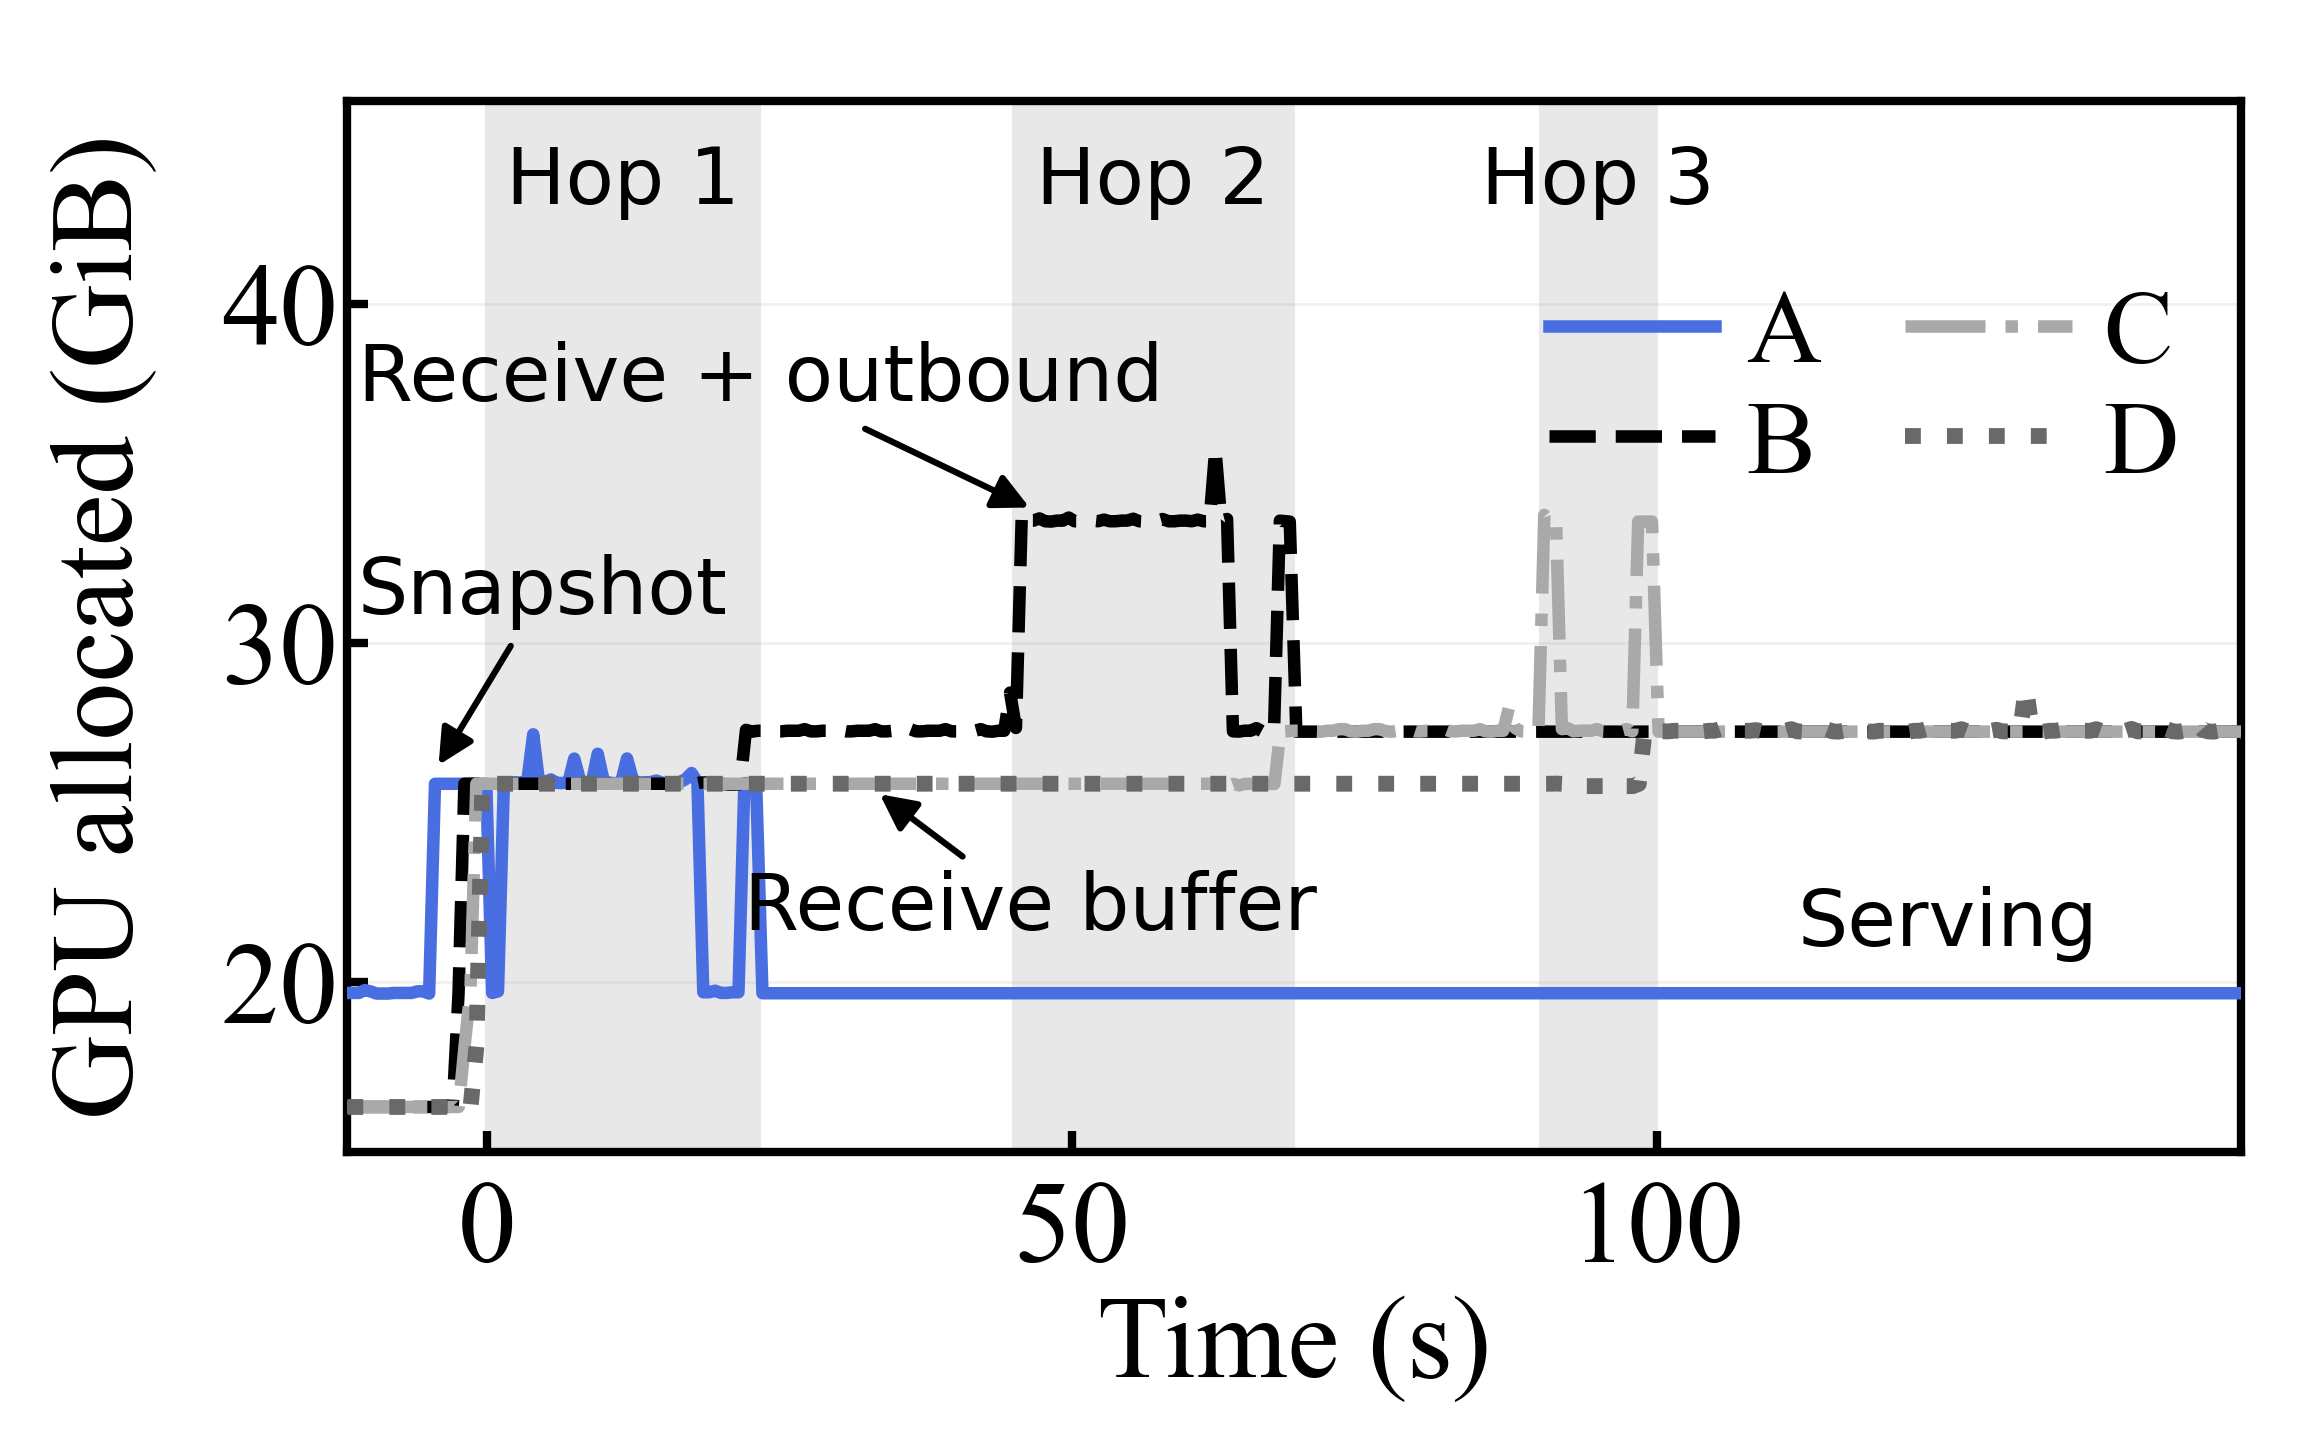
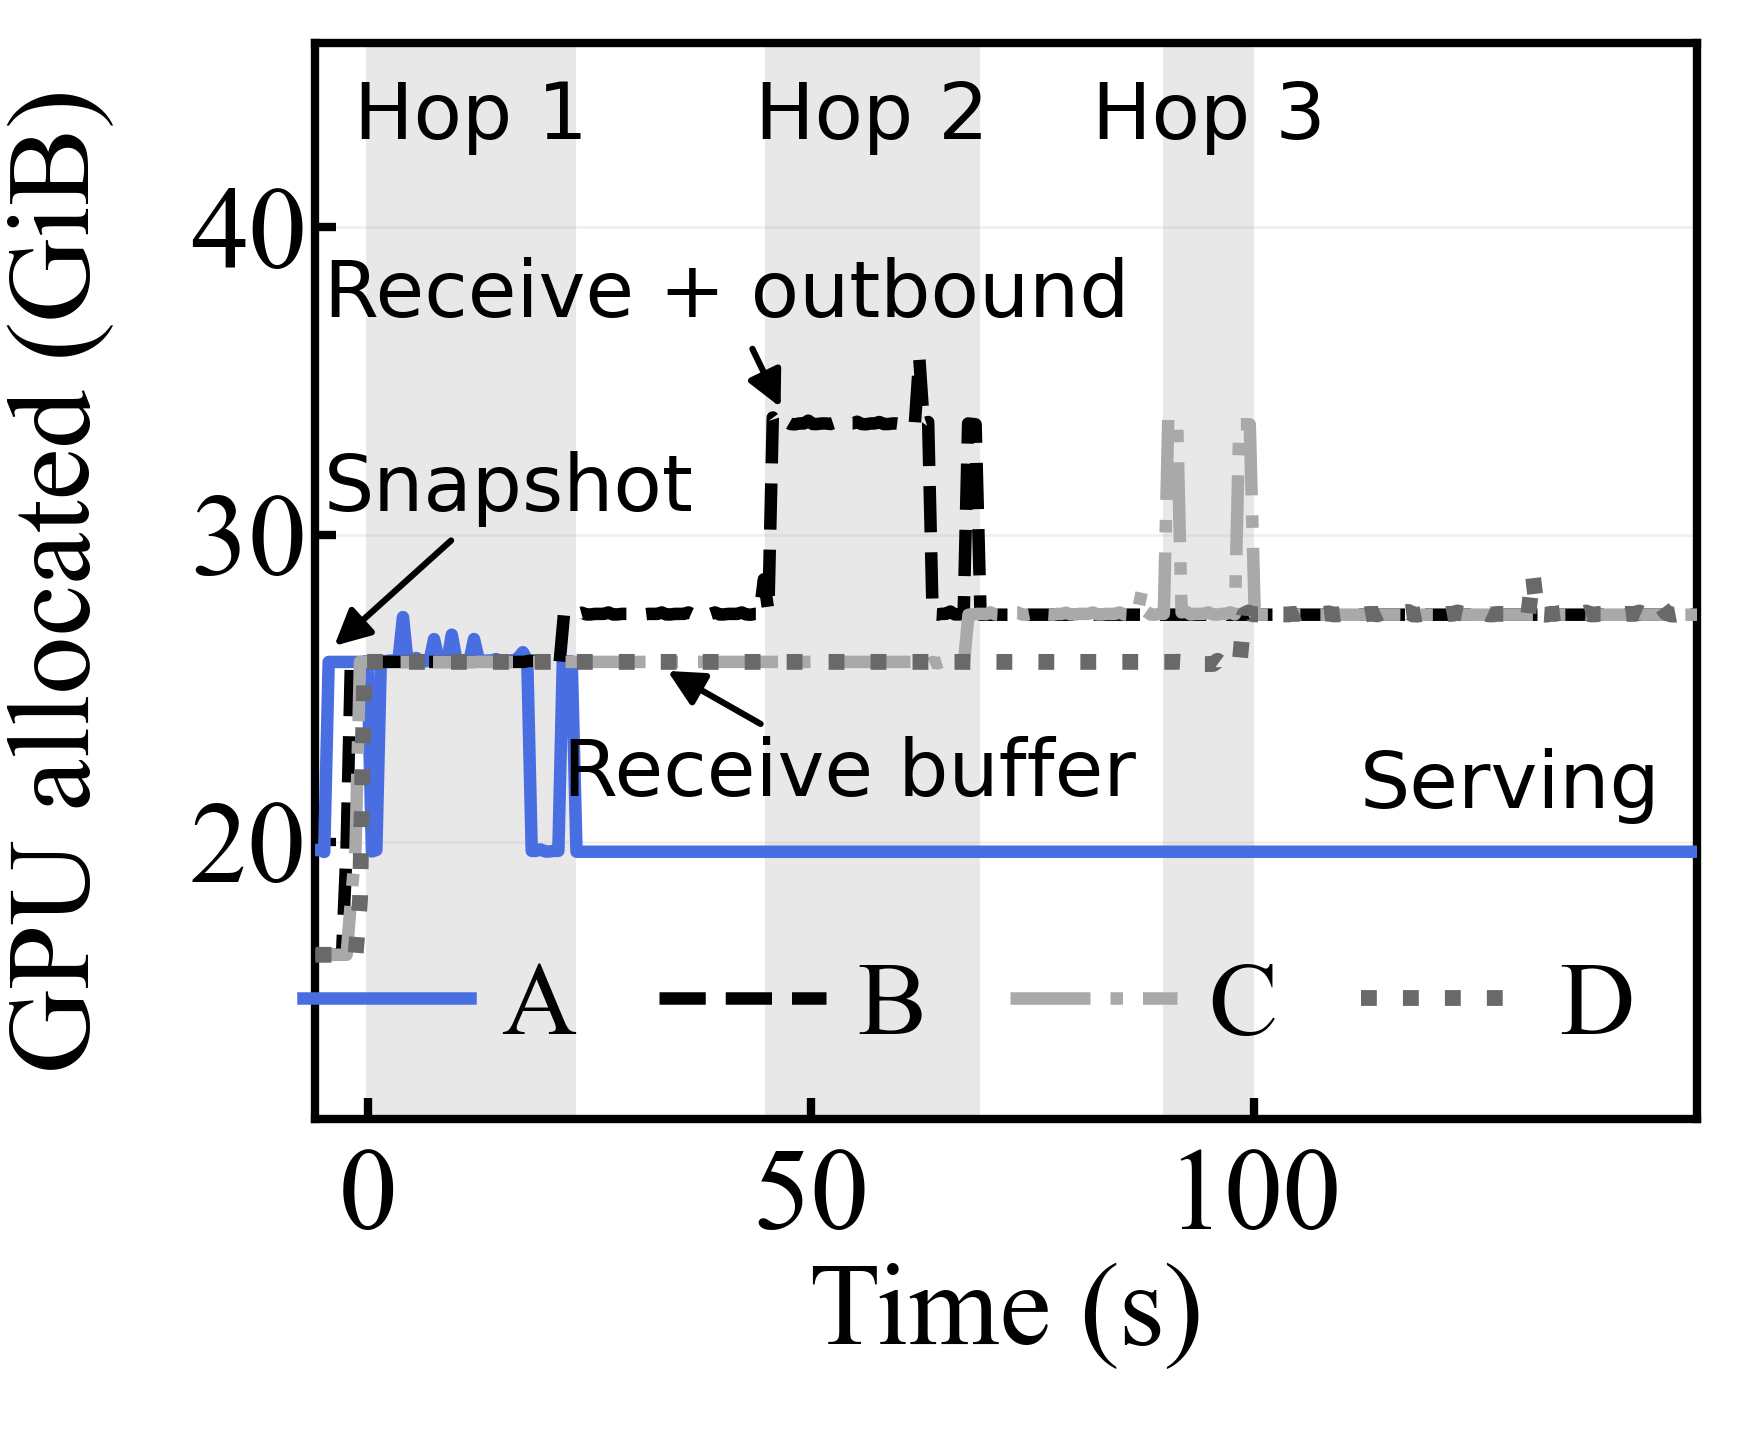
Fig. 14 DRAFT 2: both panels on the Fig. 11 canvas (5.83 x 4.78 in, axes [0.18, 0.22, 0.79, 0.75]; user 2026-11-03); (a) label 'Per-call slowdown (%)' as the rotated y label, operations on x (rotated 28 pt category labels overlap in a Fig. 11 row; fonts unchanged); (b) legend in one row at the botto

diff --git a/tools/eval/plot_fig14_v2.py b/tools/eval/plot_fig14_v2.py
@@ -26,7 +26,8 @@ from plot_fig7_migration import (ANNOT, ANNOT_FONT, BLUE, DARK_GRAY, DIM_GRAY, F
 
 OUT = ROOT / "results/evaluation/osdi/fig14/figures/v2"
 RES = ROOT / "results/evaluation/osdi/fig14/fig14_results.json"
-FIG_SIZE_6A = (5.83, 4.78)
+FIG_SIZE_6A = (5.83, 4.78)          # Fig. 11 canvas and plot box (user 2026-11-03: both panels the same size as Fig. 11)
+AXES_POS_11 = [0.18, 0.22, 0.79, 0.75]
 WL = ("dog", "bfly")
 
 
@@ -44,33 +45,30 @@ def med(xs):
 
 
 def dots(res, out):
+    """Vertical dot plot on the Fig. 11 canvas: rotated 28 pt category labels do not fit a Fig. 11 row (fonts are never
+    reduced), so the operations are on x and the slowdown on y (rotated y label)."""
     nat, ph = res["native"], res["phases"]
     rows = [("Tracking", [nat["ratios"][w]["track/native"] for w in WL]),
             ("Transfer", [med([x["src_ratio"] for x in ph["transfer"] if x["workload"] == w]) for w in WL]),
             ("Staging", [med([x["ratio"] for x in ph["staging"] if x["workload"] == w]) for w in WL])]
-    fig = plt.figure(figsize=FIG_SIZE_6A)
-    # wider left margin for the 28 pt category labels (fonts are never reduced)
-    ax = fig.add_axes([0.30, 0.22, 0.66, 0.75])
-    n = len(rows)
-    for i, (name, vals) in enumerate(rows):
-        y = n - 1 - i
+    fig = plt.figure(figsize=FIG_SIZE_6A); ax = fig.add_axes(AXES_POS_11)
+    for x, (name, vals) in enumerate(rows):
         for wi, v in enumerate(vals):
             pct = 100 * (v - 1)
-            dy = 0.14 if wi == 0 else -0.14
-            ax.scatter(pct, y + dy, s=320, marker="o", facecolor=BLUE if wi == 0 else "white", edgecolor=BLUE, linewidth=2.5, zorder=4)
-            ax.text(pct + 0.12, y + dy, f"{pct:.2f}" if pct < 0.5 else f"{pct:.1f}", ha="left", va="center", fontsize=ANNOT,
-                    fontfamily=ANNOT_FONT, style="italic")
-        ax.axhline(y, color="#DDDDDD", lw=1.0, zorder=1)
-    ax.set_yticks(range(n)); ax.set_yticklabels([r[0] for r in rows][::-1])
-    ax.set_ylim(-0.6, n - 0.4)
-    ax.set_xlim(-0.2, 3.0)
-    finish_axes(ax, "")
-    ax.tick_params(axis="y", length=0, pad=8)
-    ax.grid(axis="y", visible=False); ax.grid(axis="x", alpha=0.18, linewidth=0.7)
-    ax.set_xlabel("Time per call (+%)", fontsize=LABEL, labelpad=4)
+            dx = -0.17 if wi == 0 else 0.17
+            ax.scatter(x + dx, pct, s=320, marker="o", facecolor=BLUE if wi == 0 else "white", edgecolor=BLUE, linewidth=2.5, zorder=4)
+            ax.text(x + dx, pct + 0.16, f"{pct:.2f}" if pct < 0.5 else f"{pct:.1f}", ha="center", va="bottom", fontsize=ANNOT,
+                    fontfamily=ANNOT_FONT, style="italic", rotation=90)
+        ax.axvline(x, color="#DDDDDD", lw=1.0, zorder=1)
+    ax.set_xticks(range(len(rows))); ax.set_xticklabels([r[0] for r in rows])
+    ax.set_xlim(-0.6, len(rows) - 0.4)
+    finish_axes(ax, "Per-call slowdown (%)")
+    ax.yaxis.set_label_coords(-0.145, 0.5)
+    ax.grid(axis="x", visible=False)
+    ax.set_ylim(-0.2, 4.0)
     ax.legend(handles=[Line2D([], [], ls="", marker="o", ms=15, mfc=BLUE, mec=BLUE, mew=2.5, label="Low-refresh"),
                        Line2D([], [], ls="", marker="o", ms=15, mfc="white", mec=BLUE, mew=2.5, label="High-refresh")],
-              loc="upper right", frameon=False, fontsize=LEGEND, handletextpad=0.2, labelspacing=0.15, borderaxespad=0.2)
+              loc="upper left", frameon=False, fontsize=LEGEND, handletextpad=0.2, labelspacing=0.15, borderaxespad=0.2)
     save(fig, out)
 
 
@@ -80,28 +78,29 @@ def timeline(out):
     starts = [float(e["t_wall"]) for e in ev if e["event"] == "xb_task_start"]
     cuts = [float(e["t_wall"]) for e in ev if e["event"].endswith(":xb_precopy_switch")]
     t0 = starts[0]
-    fig = plt.figure(figsize=FIG_SIZE_78); ax = fig.add_axes([0.15, 0.20, 0.82, 0.73])
+    fig = plt.figure(figsize=FIG_SIZE_6A); ax = fig.add_axes(AXES_POS_11)
     style = {"A": (BLUE, "-", 3.0), "B": ("black", "--", 3.0), "C": (DARK_GRAY, "-.", 3.0), "D": (DIM_GRAY, ":", 3.8)}
     for lb, (col, ls, lw) in style.items():
         rows = list(csv.DictReader(open(d / f"node_{lb}/memory.csv", newline="")))
         t = [float(r["t_wall"]) - t0 for r in rows]
         g = [float(r["gpu_alloc_mb"]) / 1024 for r in rows]
-        keep = [(a, b) for a, b in zip(t, g) if a >= -12]
+        keep = [(a, b) for a, b in zip(t, g) if a >= -6]
         ax.plot([a for a, _ in keep], [b for _, b in keep], color=col, ls=ls, lw=lw, label=lb, zorder=3)
     for i, (s, c) in enumerate(zip(starts, cuts)):
         ax.axvspan(s - t0, c - t0, color="#E8E8E8", zorder=0)
         ax.text((s + c) / 2 - t0, 43.6, f"Hop {i + 1}", ha="center", va="center", fontsize=ANNOT, fontfamily=ANNOT_FONT)
-    ax.set_xlim(-12, max(cuts) - t0 + 50)
+    ax.set_xlim(-6, 150)
+    ax.set_xticks([0, 50, 100])   # a 150 label would run past the Fig. 11 canvas
     finish_axes(ax, "GPU allocated (GiB)")
-    ax.yaxis.set_label_coords(-0.10, 0.5)
-    ax.set_ylim(15, 46)
+    ax.yaxis.set_label_coords(-0.145, 0.5)
+    ax.set_ylim(11, 46)
     ax.set_xlabel("Time (s)", fontsize=LABEL, labelpad=2)
     kw = dict(fontsize=ANNOT, fontfamily=ANNOT_FONT, arrowprops=dict(arrowstyle="-|>", color="black", lw=1.5, mutation_scale=18), zorder=6)
-    ax.annotate("Snapshot", xy=(-4.5, 26.2), xytext=(-11, 31.5), ha="left", va="center", **kw)
+    ax.annotate("Snapshot", xy=(-4.5, 26.2), xytext=(-5, 31.5), ha="left", va="center", **kw)
     ax.annotate("Receive buffer", xy=(33, 25.7), xytext=(22, 22.2), ha="left", va="center", **kw)
-    ax.annotate("Receive + outbound", xy=(47, 33.9), xytext=(-11, 37.8), ha="left", va="center", **kw)
+    ax.annotate("Receive + outbound", xy=(47, 33.9), xytext=(-5, 37.8), ha="left", va="center", **kw)
     ax.text(112, 20.6, "Serving", ha="left", va="bottom", fontsize=ANNOT, fontfamily=ANNOT_FONT, zorder=6)
-    ax.legend(loc="upper right", bbox_to_anchor=(1.0, 0.88), ncol=2, frameon=False, fontsize=LEGEND, handlelength=1.6, handletextpad=0.3,
+    ax.legend(loc="lower right", ncol=4, frameon=False, fontsize=LEGEND, handlelength=1.6, handletextpad=0.3,
               columnspacing=0.8, labelspacing=0.15, borderaxespad=0.2)
     save(fig, out)
     return {"run": d.name, "starts_s": [round(s - t0, 1) for s in starts], "cutovers_s": [round(c - t0, 1) for c in cuts]}

diff --git a/results/evaluation/osdi/fig14/figures/CAPTIONS.md b/results/evaluation/osdi/fig14/figures/CAPTIONS.md
@@ -39,7 +39,7 @@ seven Sink-sized copies (11.2 GiB) across the four-node chain. D, the final owne
 
 ## DRAFT 2 (user 2026-11-03: two panels; `figures/v2/`, `tools/eval/plot_fig14_v2.py`; existing data only)
 
-**Fig. 14(a) fig14a_dots.** Per-call slowdown (%) of OTTER's operations; Low-refresh filled, High-refresh open; each
+**Fig. 14(a) fig14a_dots.** Per-call slowdown (%) of OTTER's operations (vertical dot plot on the Fig. 11 canvas); Low-refresh filled, High-refresh open; each
 row has its own baseline. Tracking: metadata tracking inside upstream's native loop vs the same loop without it
 (same host, 5 reps). Transfer: the source while a migration transfers state vs its own uninterrupted reference
 (10 runs). Staging: the owner while a staging flow is active vs outside those intervals (6 runs). Medians.
